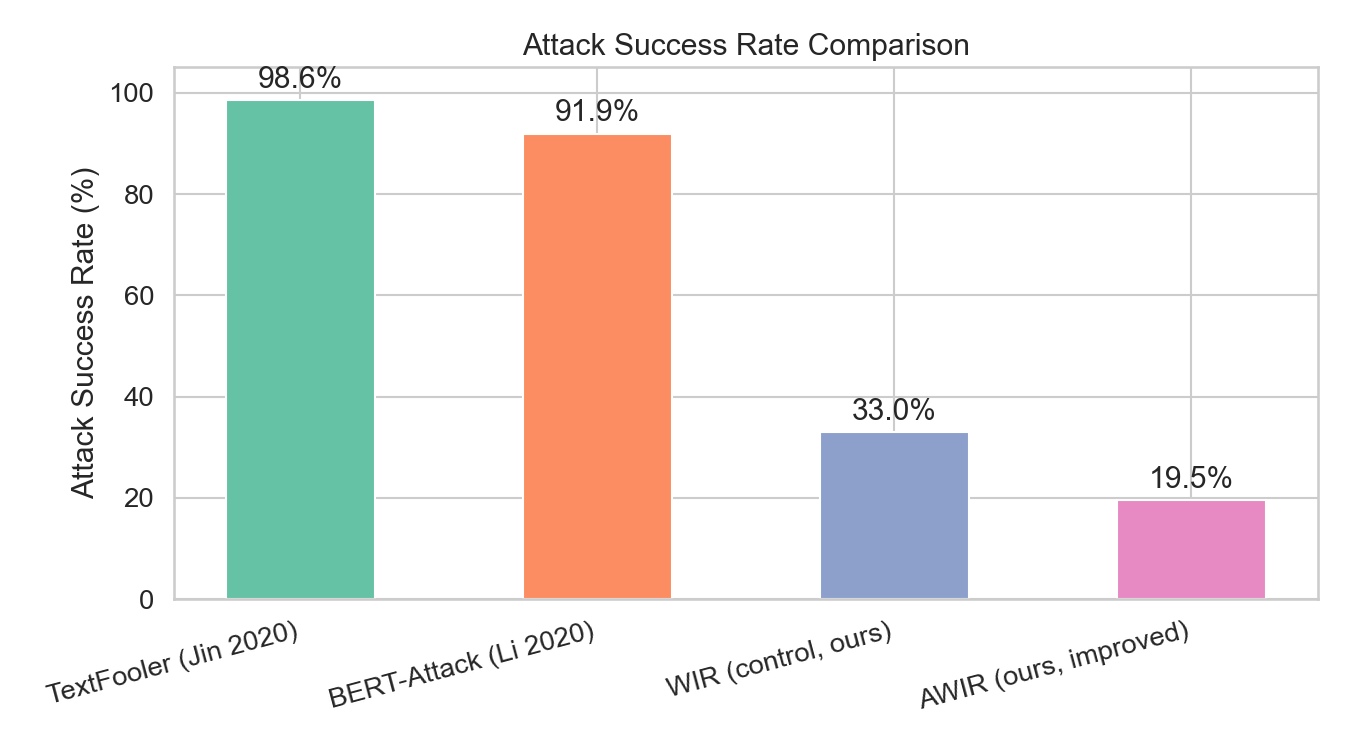
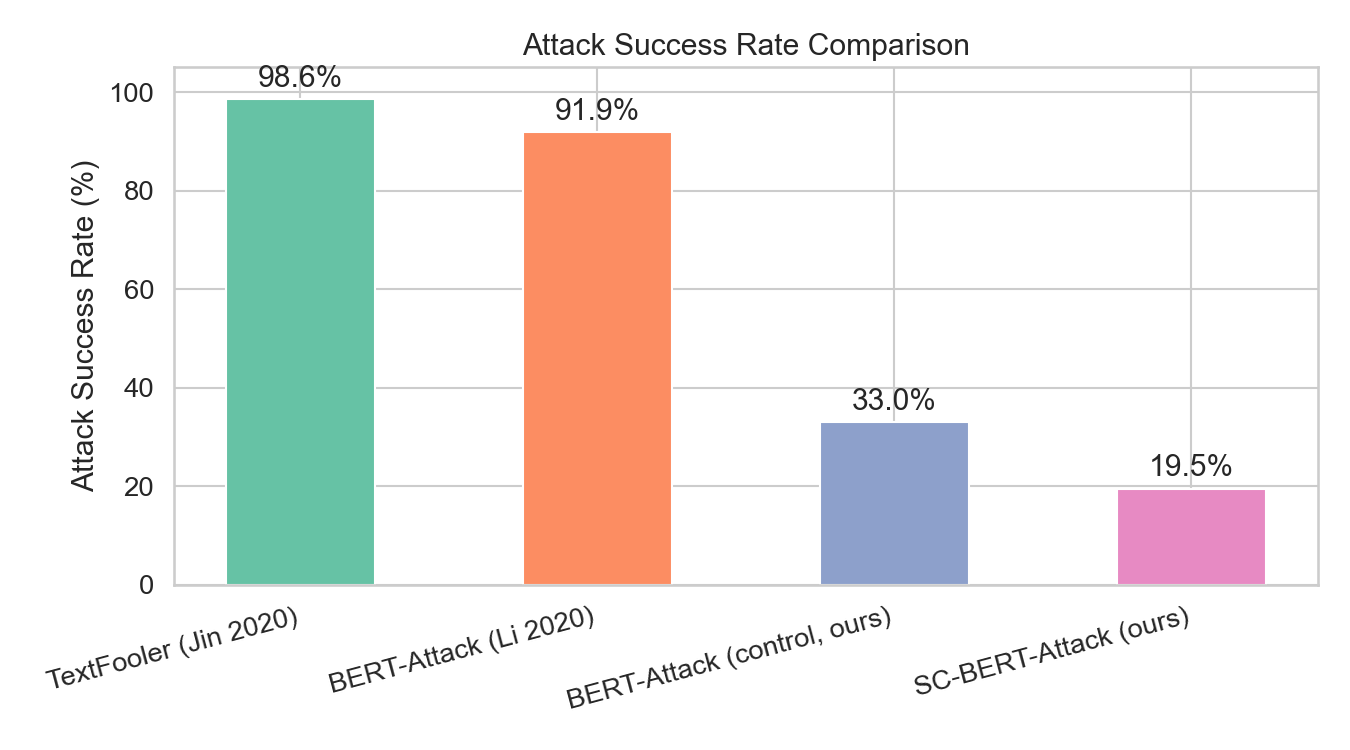
fix: rename AWIR to SC-BERT-Attack in evaluate.py and regenerate figures

diff --git a/Desktop/ruanzhi/evaluate/evaluate.py b/Desktop/ruanzhi/evaluate/evaluate.py
@@ -103,7 +103,7 @@ def _awir_defense_row(json_path, model_label):
     if r is None:
         return None
     return {
-        "Method": f"{model_label} + AWIR",
+        "Method": f"{model_label} + SC-BERT-Attack",
         "Total": r["total"],
         "Successful": r["success"],
         "Failed": r["total"] - r["success"],
@@ -126,8 +126,8 @@ def parse_improved_json(json_path):
 
     rows = []
     name_map = {
-        "WIR_baseline": "WIR (control, ours)",
-        "AWIR_improved": "AWIR (ours, improved)",
+        "WIR_baseline": "BERT-Attack (control, ours)",
+        "AWIR_improved": "SC-BERT-Attack (ours)",
     }
     for key, r in data.items():
         rows.append({
